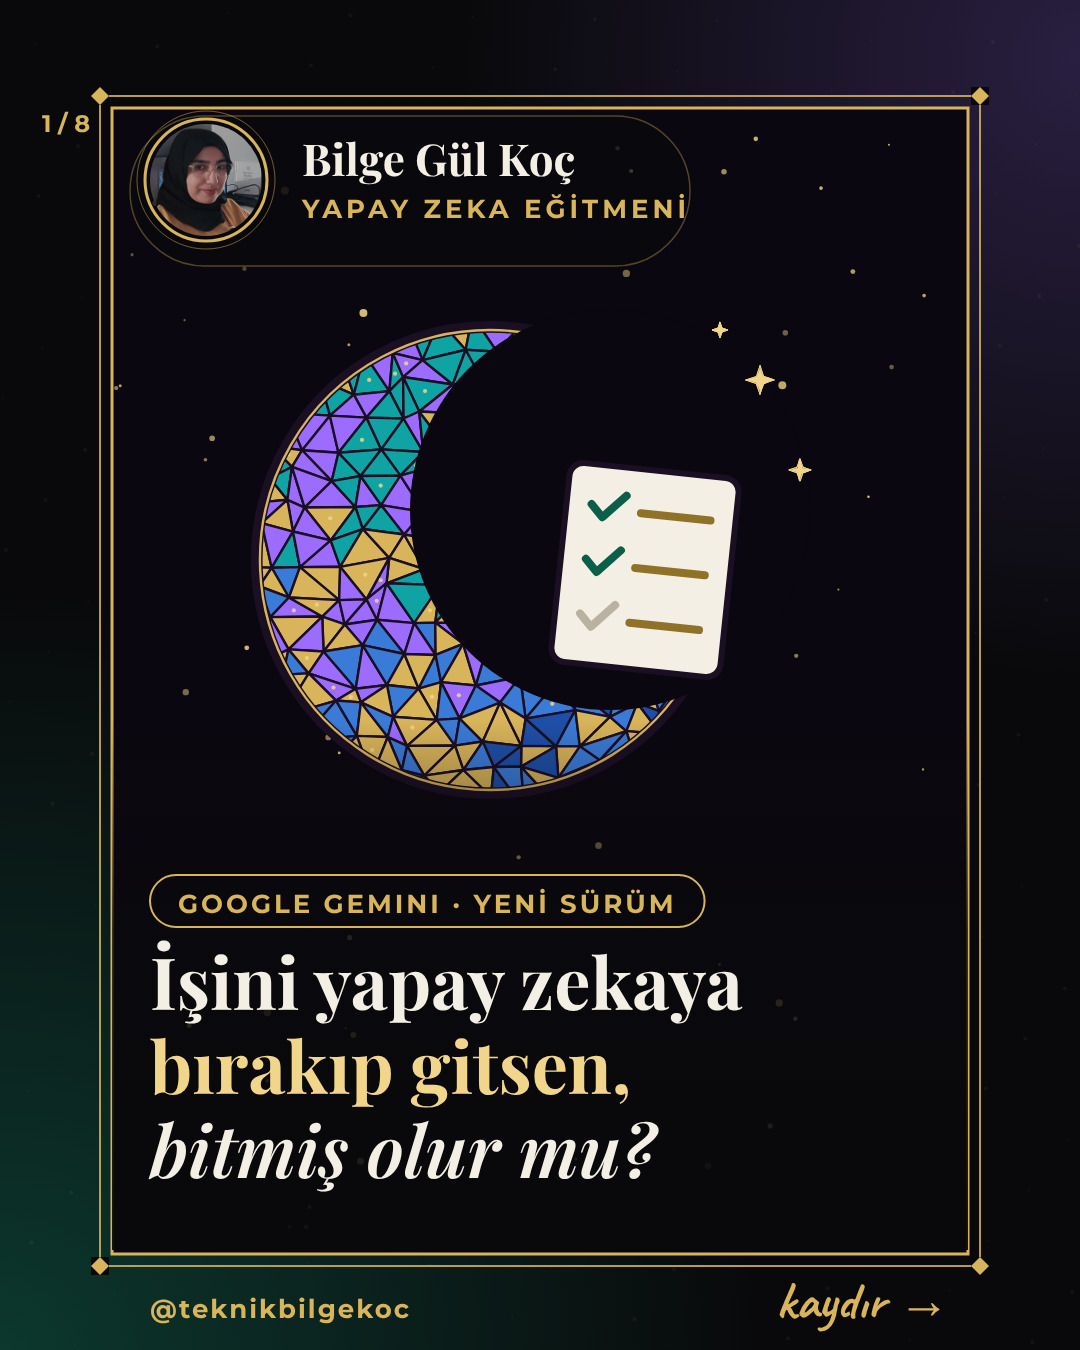
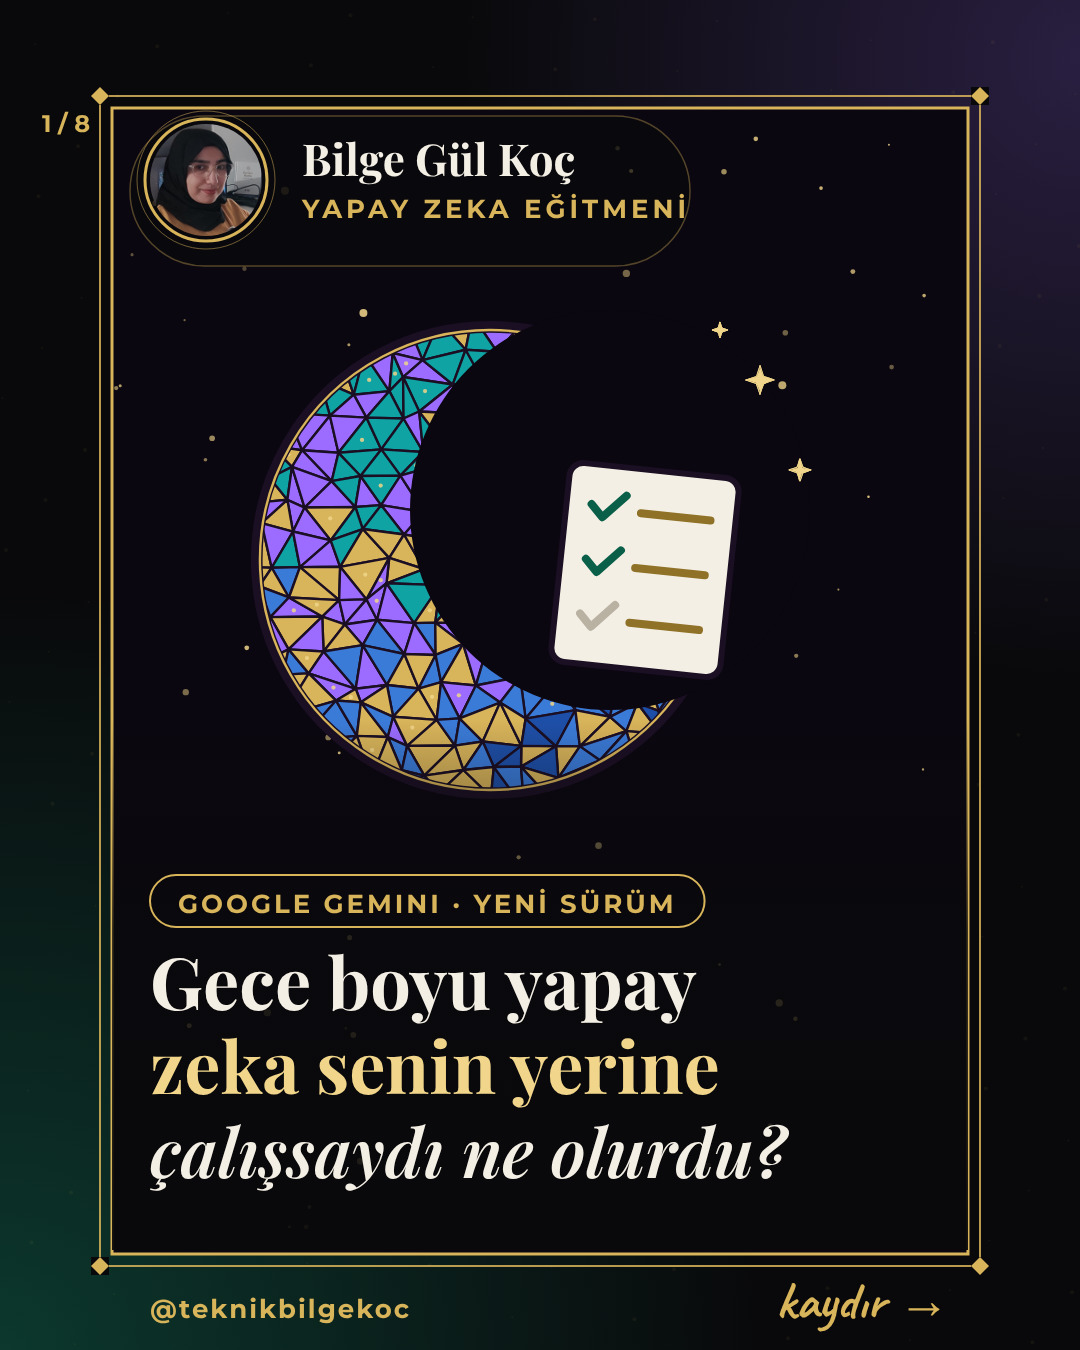
Kanca önerisi: hayal sorusu türü (Bilge'nin örneği), Gemini kapağı güncellendi
Claude-Session: https://claude.ai/code/session_01XC4Pp79YRtqX5bGTif3hZa

Changed region(s): [[0.1222, 0.6844, 0.7333, 0.9022]]

diff --git a/kanca-deneme/g1.js b/kanca-deneme/g1.js
@@ -15,9 +15,9 @@ async function build() {
   perde(720, 1250);
   rozetZemin(); profil(150, 124, 112);
   chip('GOOGLE GEMINI · YENİ SÜRÜM', 150, 905, C.gold);
-  serif('İşini yapay zekaya', 150, 1010, { size: 72, color: C.ivory });
-  serif('bırakıp gitsen,', 150, 1094, { size: 72, color: C.goldHi });
-  serif('bitmiş olur mu?', 150, 1178, { size: 72, color: C.ivory, italic: true, weight: 600 });
+  serif('Gece boyu yapay', 150, 1010, { size: 72, color: C.ivory });
+  serif('zeka senin yerine', 150, 1094, { size: 72, color: C.goldHi });
+  serif('çalışsaydı ne olurdu?', 150, 1178, { size: 68, color: C.ivory, italic: true, weight: 600 });
   text('kaydır →', 950, 1318, { size: 52, font: 'Caveat', weight: 700, color: C.gold, anchor: 'end' }).dataset.free = 1;
   done();
 }

diff --git a/kanca-deneme/kanca-onerisi.md b/kanca-deneme/kanca-onerisi.md
@@ -15,6 +15,12 @@
 4. Cevabı bilmiyor ama tahmin etmek istiyor: kaydırır.
 5. Jargon, rakam, şirket adı yok; şirket adı küçük etikette.
 
+## İki çalışan soru türü (Bilge, 16 Ekim 2026)
+1. SOMUT ENDİŞE (evet/hayır ama okurun gerçek korkusu): "Aramaları yapay zeka karşılasa müşteri fark eder mi?"
+2. HAYAL SORUSU (açık uçlu, "ne olurdu?"): "Gece boyu yapay zeka senin yerine çalışsaydı ne olurdu?" Okuru bir sahneyi kafasında kurmaya çağırır; cevap tek kelime değildir, merak daha uzun sürer.
+Bilge'ye UYMAYAN: "İşini yapay zekaya bırakıp gitsen, bitmiş olur mu?" Kuru evet/hayır sorusu; ne bir korkuya dokunuyor ne bir sahne kuruyor.
+Seçim: Haber okurun işine dokunan bir risk/endişe taşıyorsa 1, yeni bir yetenek/imkân taşıyorsa 2.
+
 ## Önerilen kalıp
 - KAPAK (soru): "[okurun işinden bir durum] + yapay zeka [haberdeki yeni şeyi] yapsa, [okurun asıl merakı]?"
   Etiket hapı bilgiyi taşır: "GOOGLE GEMINI · YENİ SÜRÜM", "ELON MUSK · STARLINK".
@@ -25,7 +31,7 @@
 | Haber | Kapak sorusu | 2. slayt başlığı |
 |---|---|---|
 | Grok Voice | Telefonu yapay zeka açsa, müşterin fark eder mi? | Telefonu yapay zeka açıyor |
-| Gemini 4 Argon | İşini yapay zekaya bırakıp gitsen, bitmiş olur mu? | Artık sen yokken çalışıyor |
+| Gemini 4 Argon | Gece boyu yapay zeka senin yerine çalışsaydı ne olurdu? | Artık sen yokken çalışıyor |
 | Meta hafıza | Yapay zeka seni hatırlasa, her şeyi baştan anlatmak zorunda kalmaz mısın? | Meta'nın yapay zekası artık hatırlıyor |
 | Uber güvenlik | Yapay zekaya şirketinin dosyalarını açsan, ne yaptığını görebilir misin? | Uber, yapay zekayı çalışan gibi izliyor |
 
